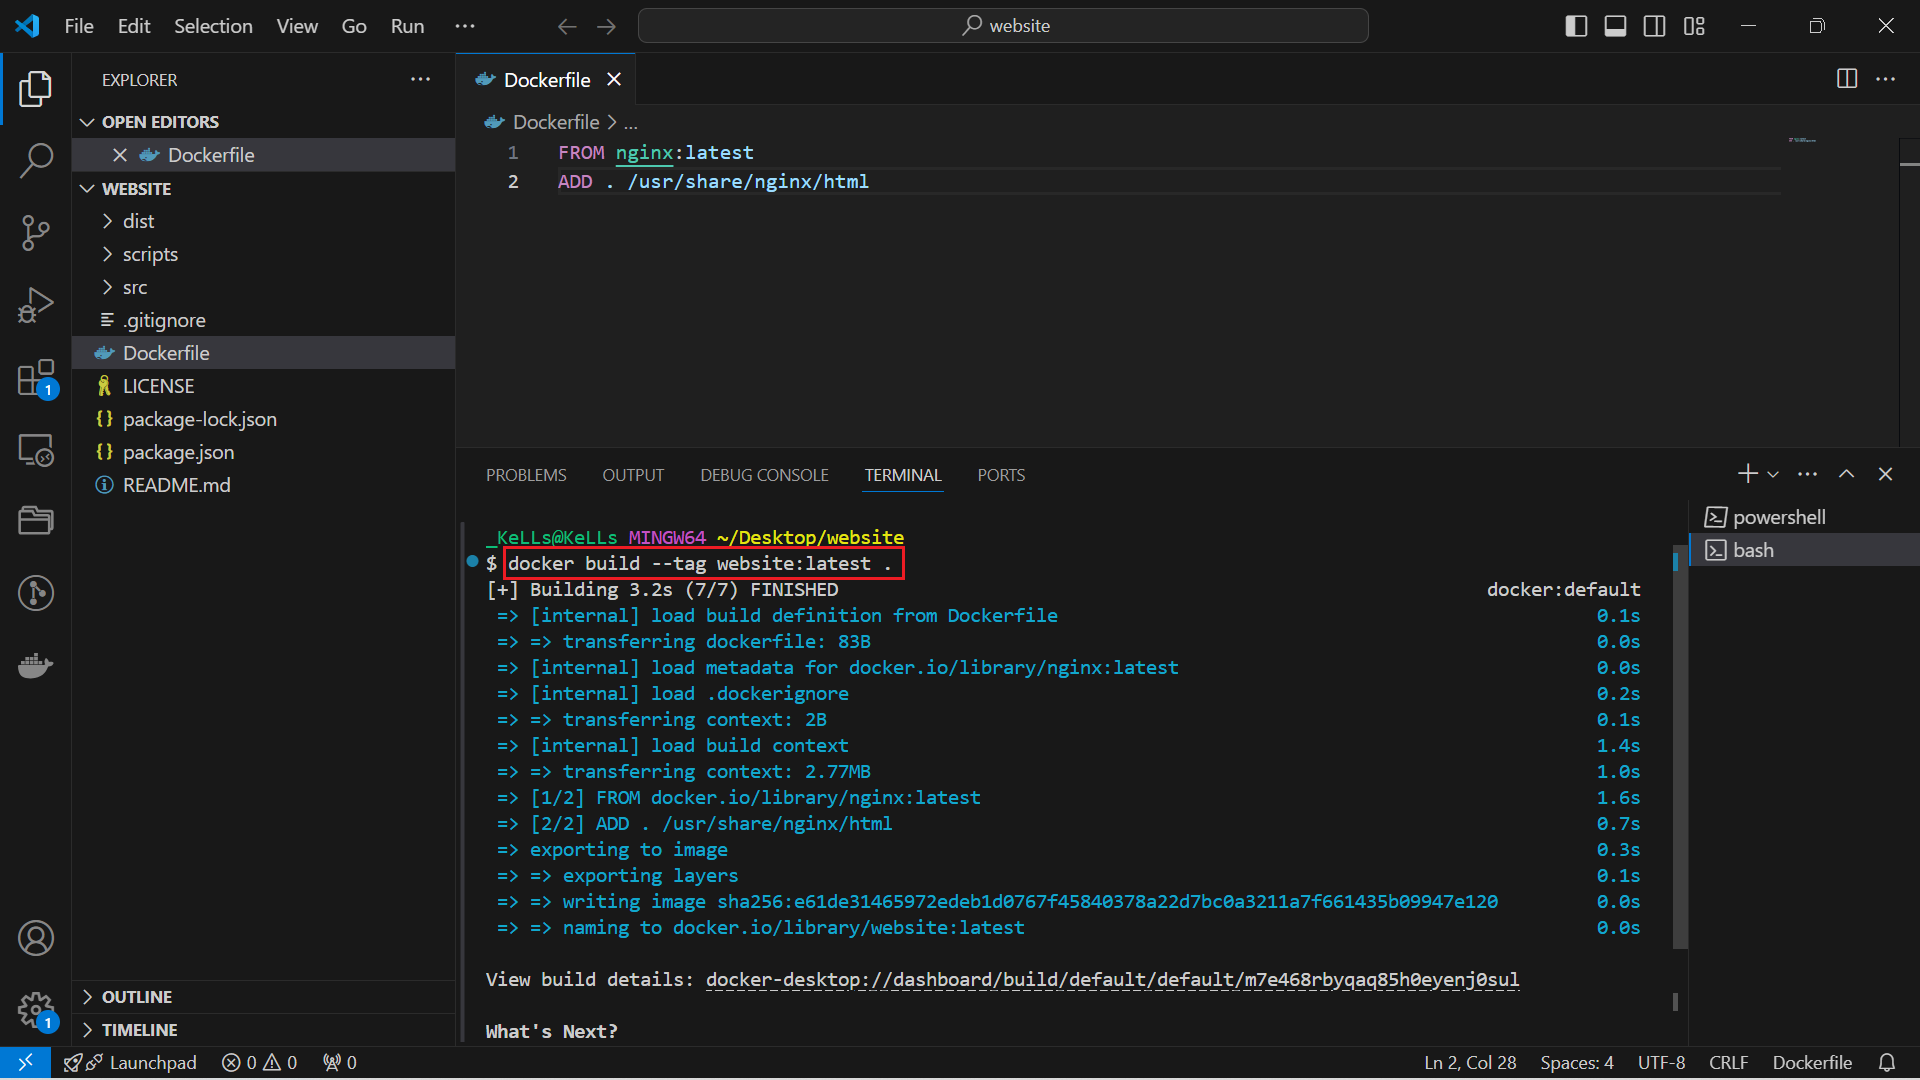
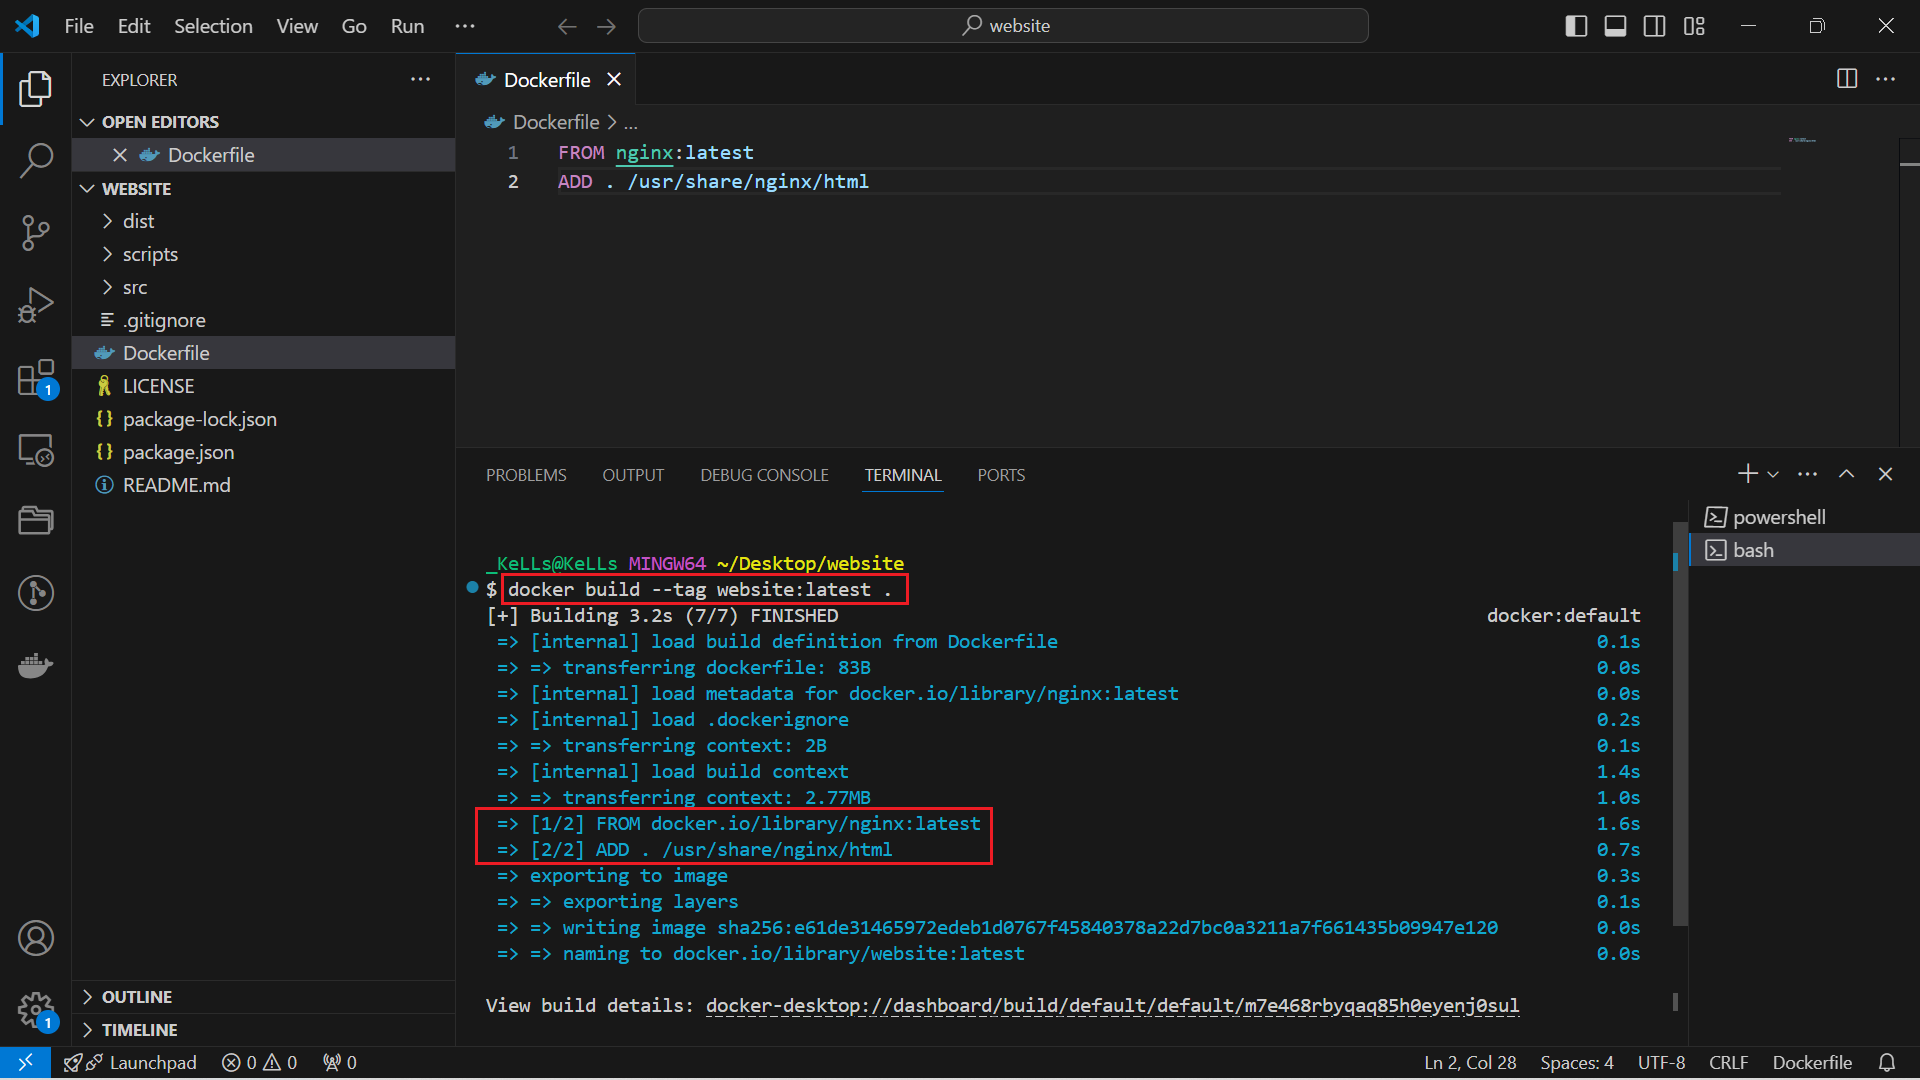
added

Changed region(s): [[0.2188, 0.4889, 0.7812, 0.9778], [0.7812, 0.5194, 0.875, 0.5806], [0.8438, 0.8556, 0.875, 0.8861]]

diff --git a/docker.md b/docker.md
@@ -124,6 +124,10 @@ search for nginx
 ```
 docker run --name website -d -p 8080 nginx
 ```
+```
+8080:80 means 8080 local host port to port 80 which is the container port.
+```
+
 ![image](./screenshots/newnginx.png)
 
 We'll now have to overite this nginx default webpage by simply mounting a volume from the **`host`** to the **`container`**
@@ -283,3 +287,28 @@ docker build --help
 ```
 
 ![image](./screenshots/firstdockerimage.png)
+
+```
+ADD . /usr/share/nginx/html  
+```
+the above command adds everyhting in the current directory `(ADD .)` to the destination `(usr/share/nginx/html)` inside our container.
+
+![image](./screenshots/builtimage.png)
+
+Let's build a container off the image (website) we just created. 
+
+![image](./screenshots/image%20built.png)
+
+***A crucial part of running your own container from your custom built image is that you are not mounting any volume. This image containes everything that our container needs to run.***
+
+***So we've been able to create a dockerfile, built an image from the dockerfile, then run a contianer from the image***
+
+## A bit more about Dockerfiles
+- Nodejs and Express
+
+Let's go ahead and switch context and build an API using Nodejs. 
+
+Install Nodejs
+Go ahead to Nodejs.org and download either the recommended version or the one that contains the latest version. Once we have nodejs installed, we will be using the express framework. Express allows us to build API's and web applications 
+
+![image](./screenshots/nodjs.png)
